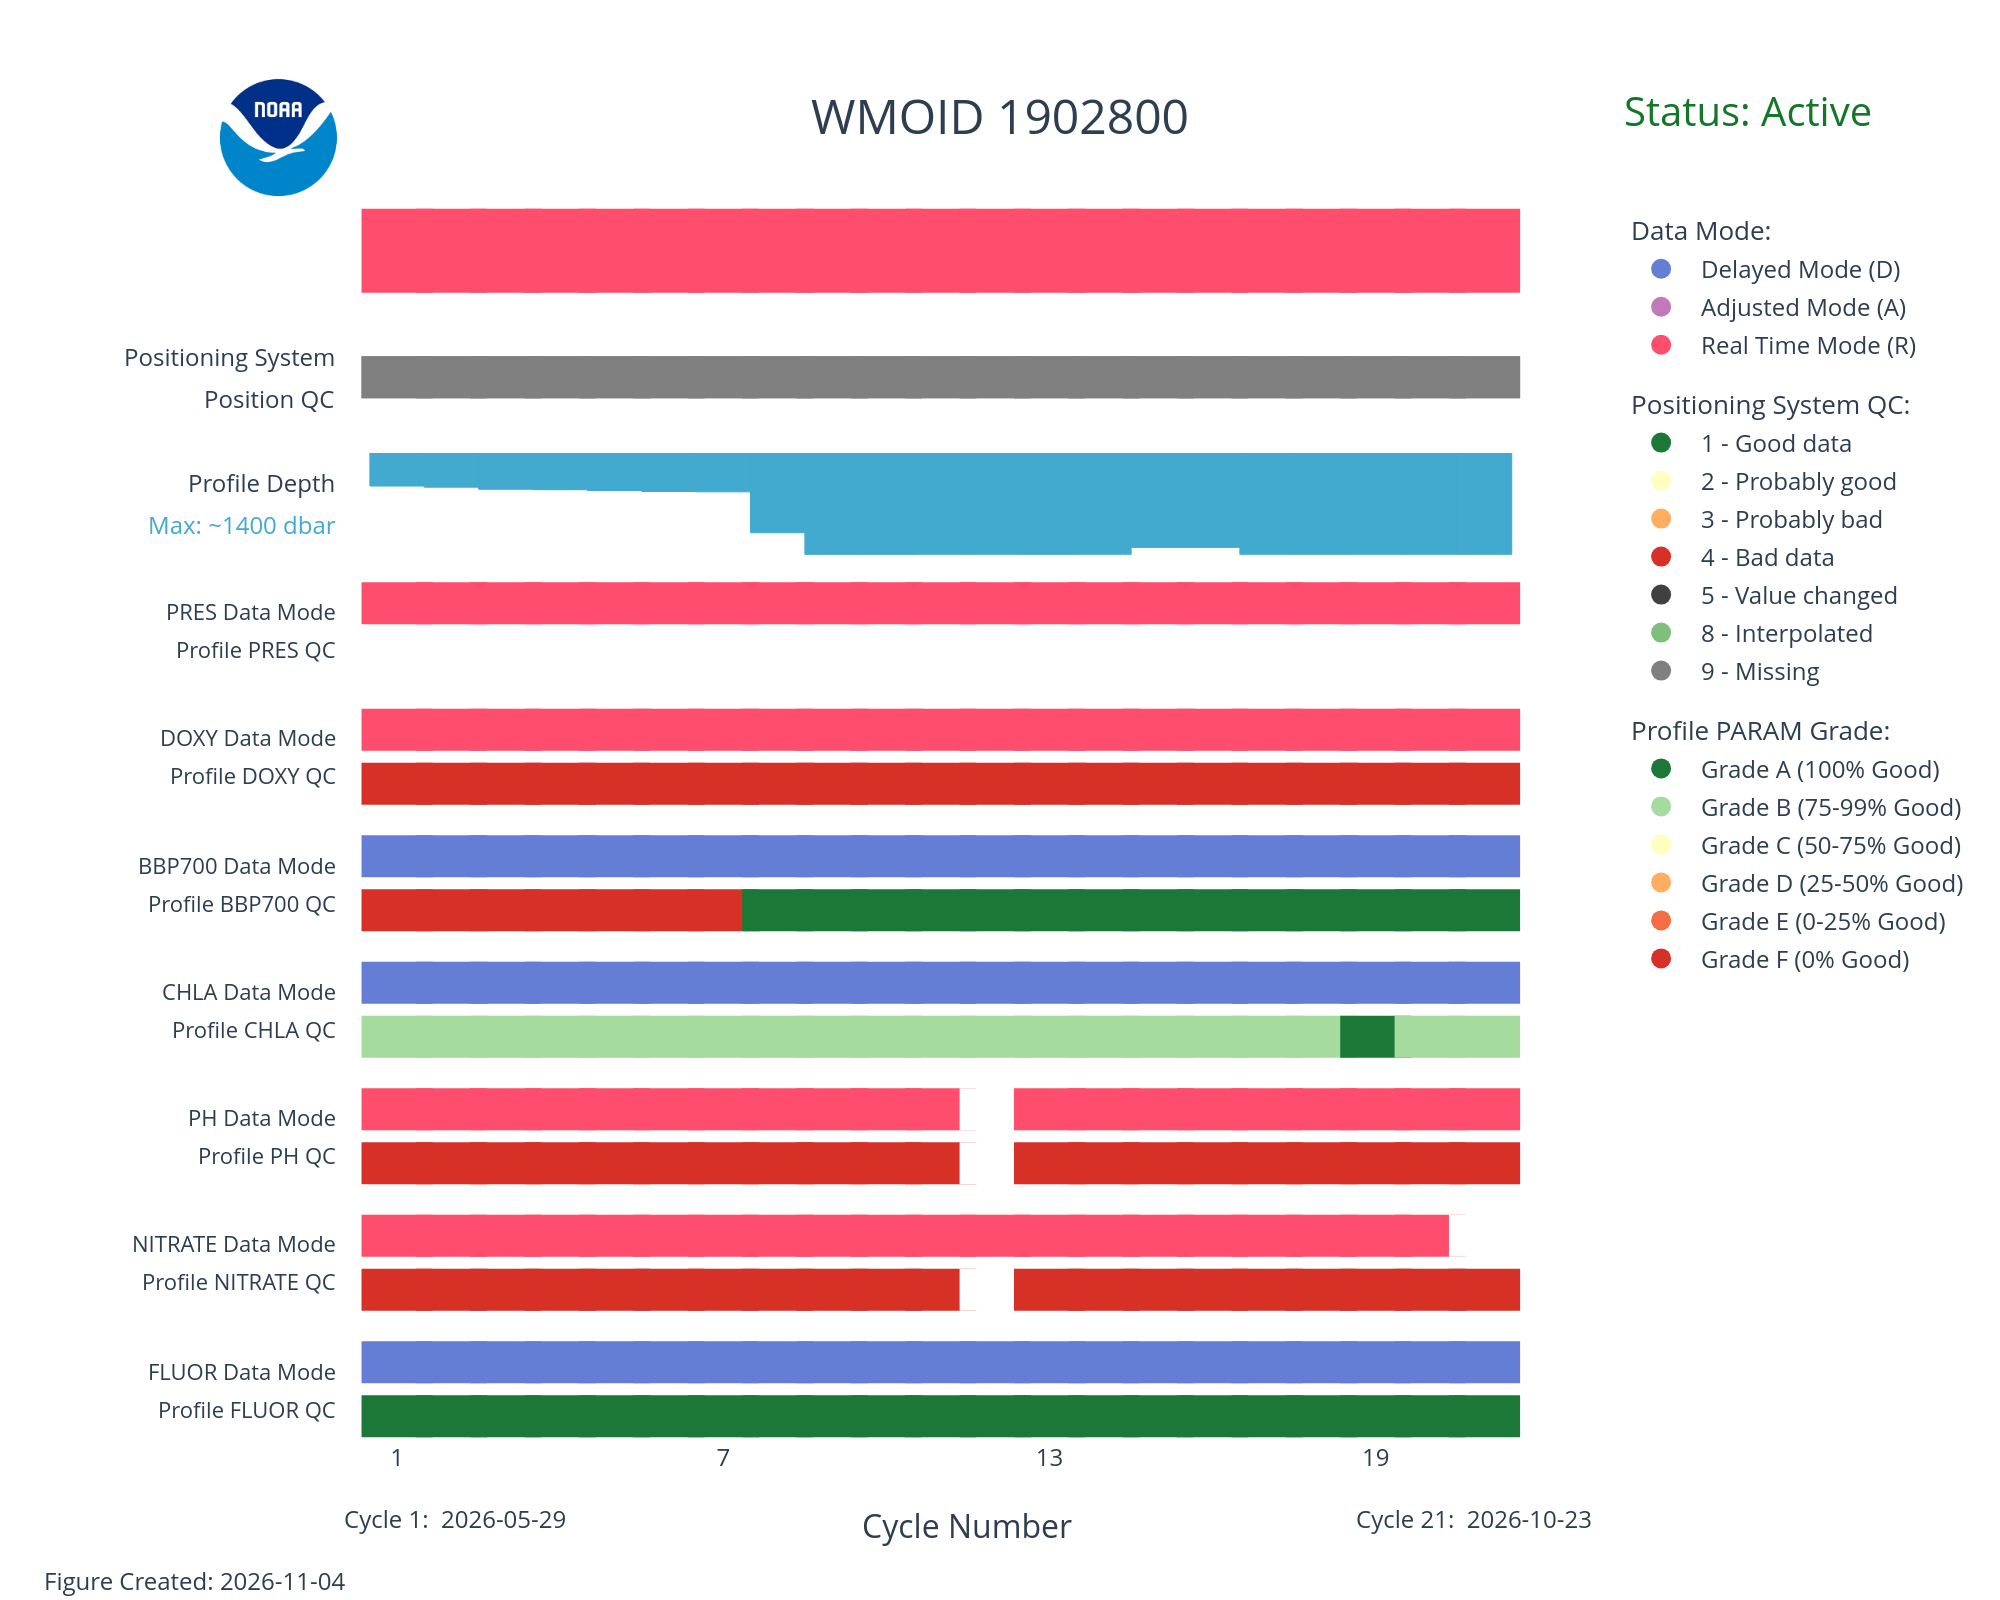
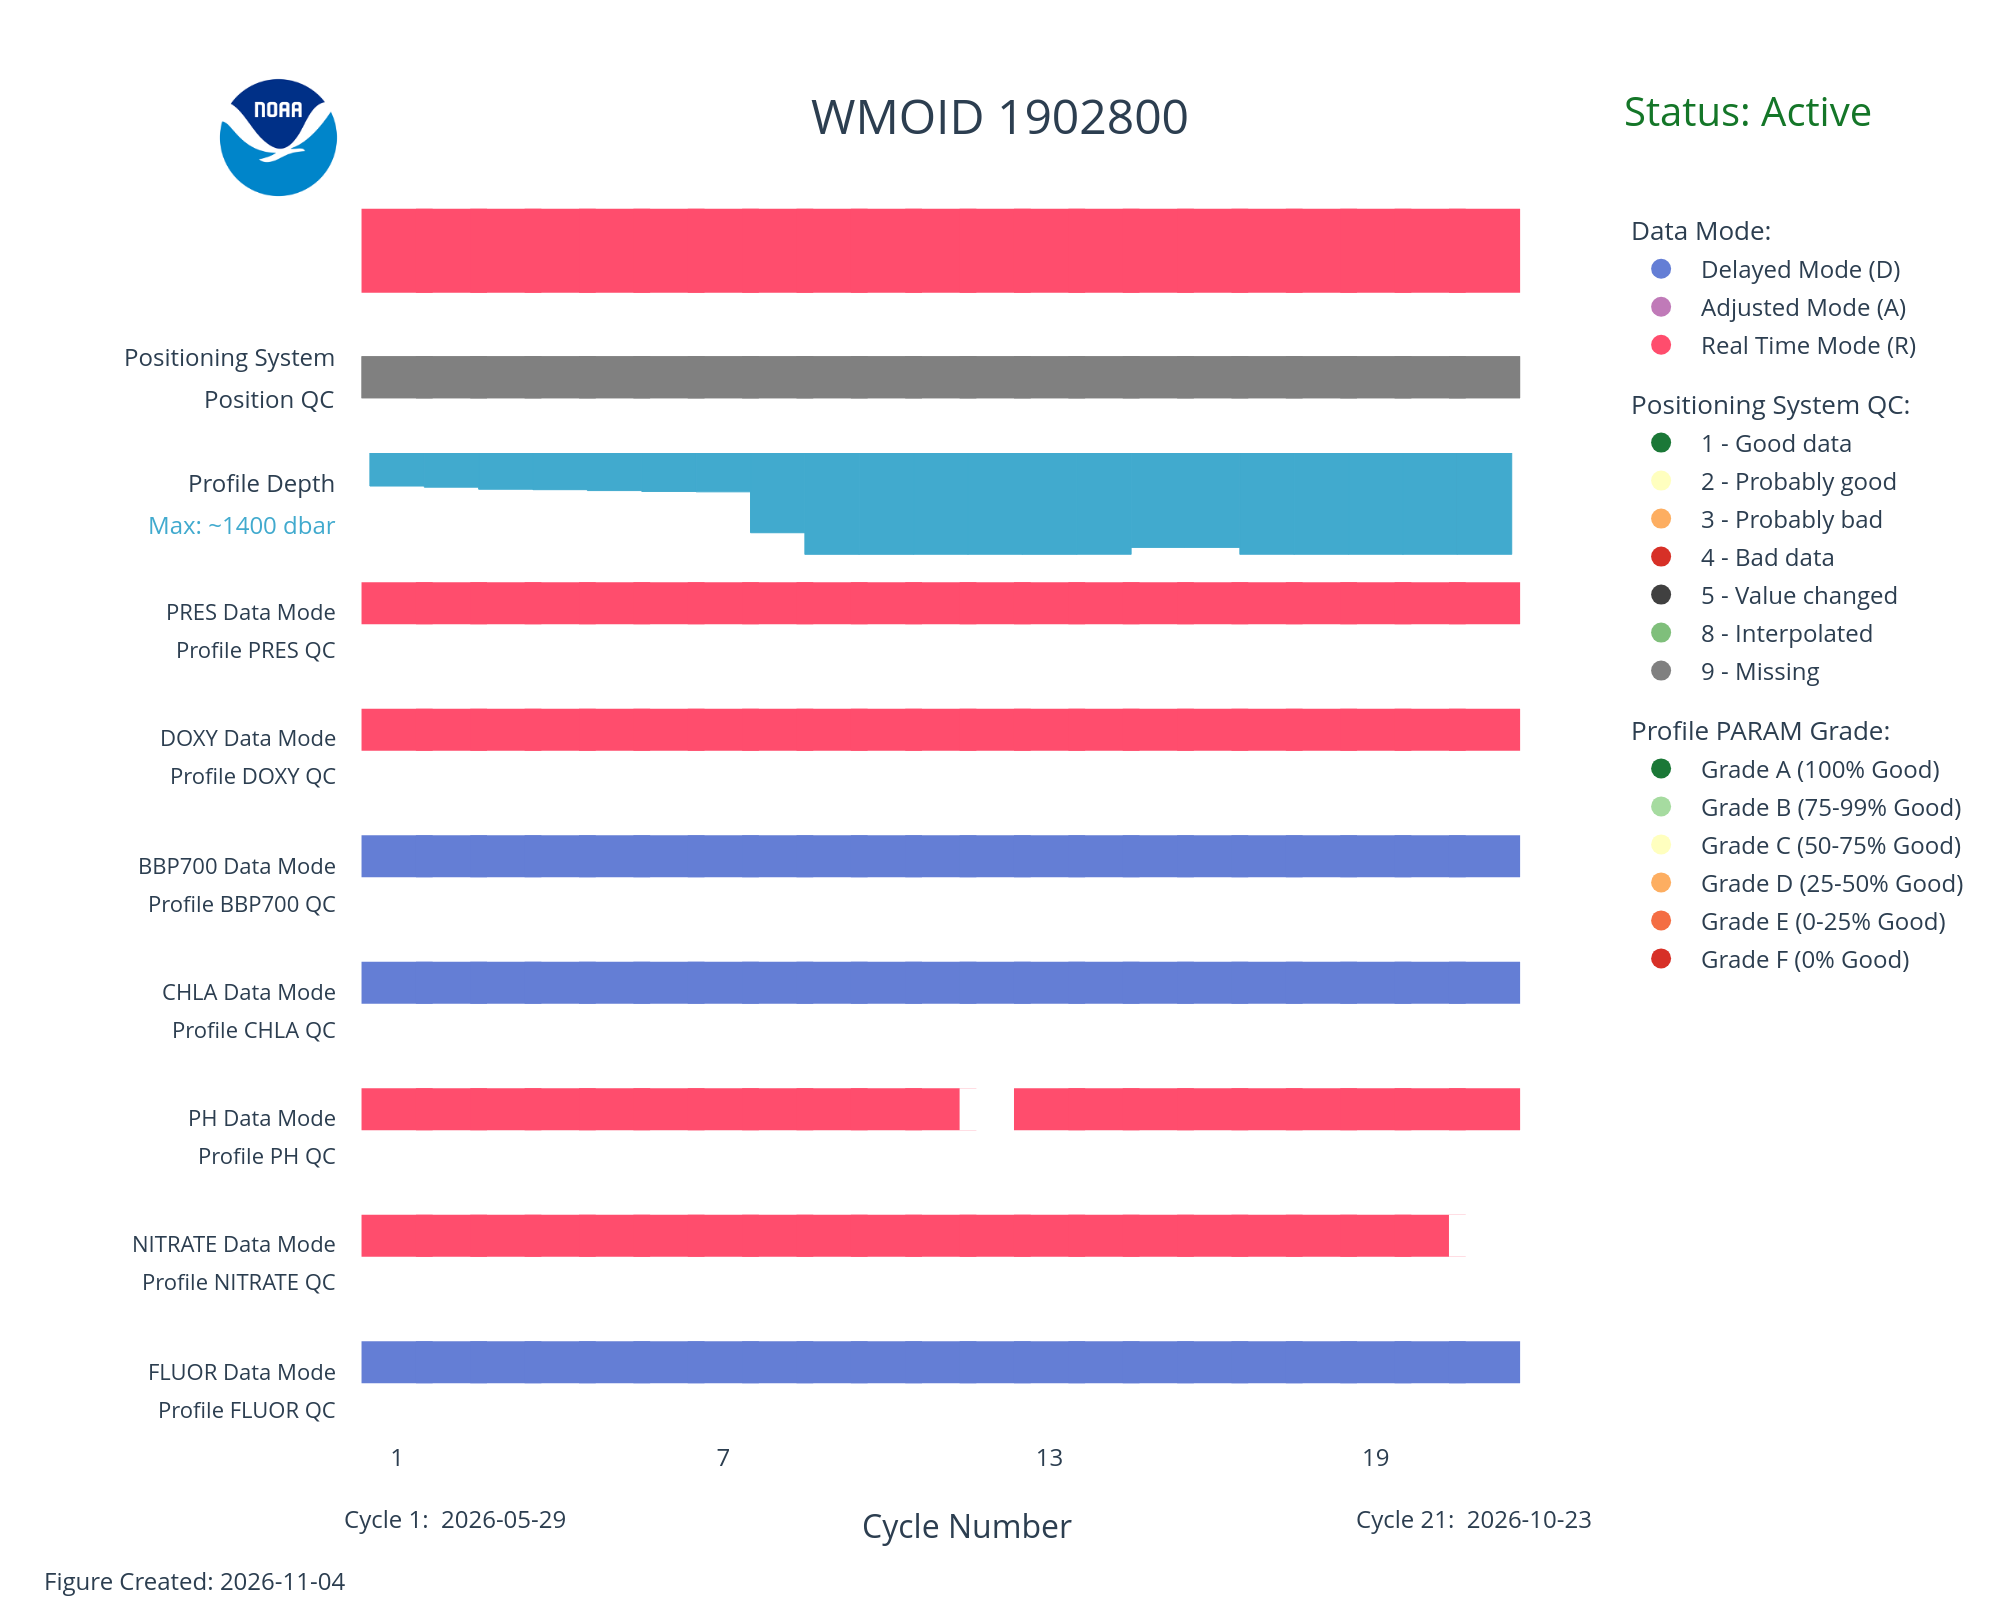
BD missing data updates
Filled any missing data with either -99999 or 9 for _QC variables.

diff --git a/Script/BD_Filler_BioOptics_DOXY.py b/Script/BD_Filler_BioOptics_DOXY.py
@@ -810,6 +810,74 @@ def remove_forbidden_attributes(bgc_file):
                     var.delncattr(attr)
 
 
+def standardize_missing_data_and_qc(ds):
+    """
+    Standardizes missing data across all variables in the final BD NetCDF dataset.
+    1. For any variable ending in '_QC': sets missing, blank (' ', ''), 
+       or fill values to '9' (b'9').
+    2. For numeric data variables (excluding navigation/time/dimensions): 
+       sets NaN, inf, or arbitrary fill indicators to standard -99999.0 (-99999 for int).
+    """
+    excluded_vars = {
+        "LATITUDE", "LONGITUDE", "JULD", "JULD_LOCATION", 
+        "PRES", "PRES_ADJUSTED", "CYCLE_NUMBER", "CONFIG_MISSION_NUMBER",
+        "STATION_PARAMETERS", "DATA_MODE", "PARAMETER_DATA_MODE"
+    }
+
+    for v_name in ds.variables.keys():
+        var = ds.variables[v_name]
+        
+        # Condition 1: QC variables (ending in _QC)
+        if v_name.endswith("_QC"):
+            try:
+                arr = var[:]
+                if isinstance(arr, np.ma.MaskedArray):
+                    arr = arr.filled(b"9")
+                
+                if arr.dtype.kind in ["S", "U", "O"]:
+                    str_arr = np.array([
+                        x.decode("utf-8", errors="ignore").strip() if isinstance(x, (bytes, np.bytes_)) 
+                        else str(x).strip() for x in arr.flat
+                    ])
+                    # Replace blanks, empty strings, spaces, or non-valid characters with '9'
+                    mask_missing_qc = (str_arr == "") | (str_arr == " ") | (~np.isin(str_arr, list(VALID_QC_CHARS)))
+                    str_arr[mask_missing_qc] = "9"
+                    
+                    if arr.dtype.kind == "S":
+                        normalized_bytes = np.array([s.encode("utf-8") for s in str_arr]).reshape(arr.shape)
+                        var[:] = normalized_bytes.astype(var.dtype)
+                    else:
+                        var[:] = str_arr.reshape(arr.shape).astype(var.dtype)
+            except Exception:
+                pass
+            continue
+
+        # Condition 2: Numeric variables not in excluded list
+        if v_name in excluded_vars:
+            continue
+
+        if var.dtype.kind in ["f", "i", "u"]:
+            try:
+                arr = var[:]
+                if isinstance(arr, np.ma.MaskedArray):
+                    arr = arr.filled(MISSING_VAL)
+
+                # Identify NaN, Inf, or legacy positive fill values (99999.0)
+                mask_missing = (
+                    np.isnan(arr) 
+                    | np.isinf(arr) 
+                    | (arr == 99999.0) 
+                    | (arr == -99999.0)
+                )
+
+                if np.any(mask_missing):
+                    fill_to_apply = np.float32(-99999.0) if var.dtype.kind == "f" else int(-99999)
+                    arr[mask_missing] = fill_to_apply
+                    var[:] = arr
+            except Exception:
+                pass
+
+
 def create_working_bd_file(filename, dest_dir=None):
     path, name = os.path.split(filename)
     bd_name = re.sub(r"^(AOML_)?BR", "BD", name)
@@ -2150,6 +2218,11 @@ for idx_f, WMOfloatid in enumerate(WMO_FLOAT_IDS, start=1):
                     ds.variables["DATA_STATE_INDICATOR"][i, :] = nc.stringtochar(
                         np.array("2C  ", dtype="S4")
                     )
+
+            # ------------------------------------------------------------------
+            # 4.5. Standardize all missing data to -99999 and QC flags to '9'
+            # ------------------------------------------------------------------
+            standardize_missing_data_and_qc(ds)
 
             ds.close()
             new_bd_files.append(w_bgc_filename)
